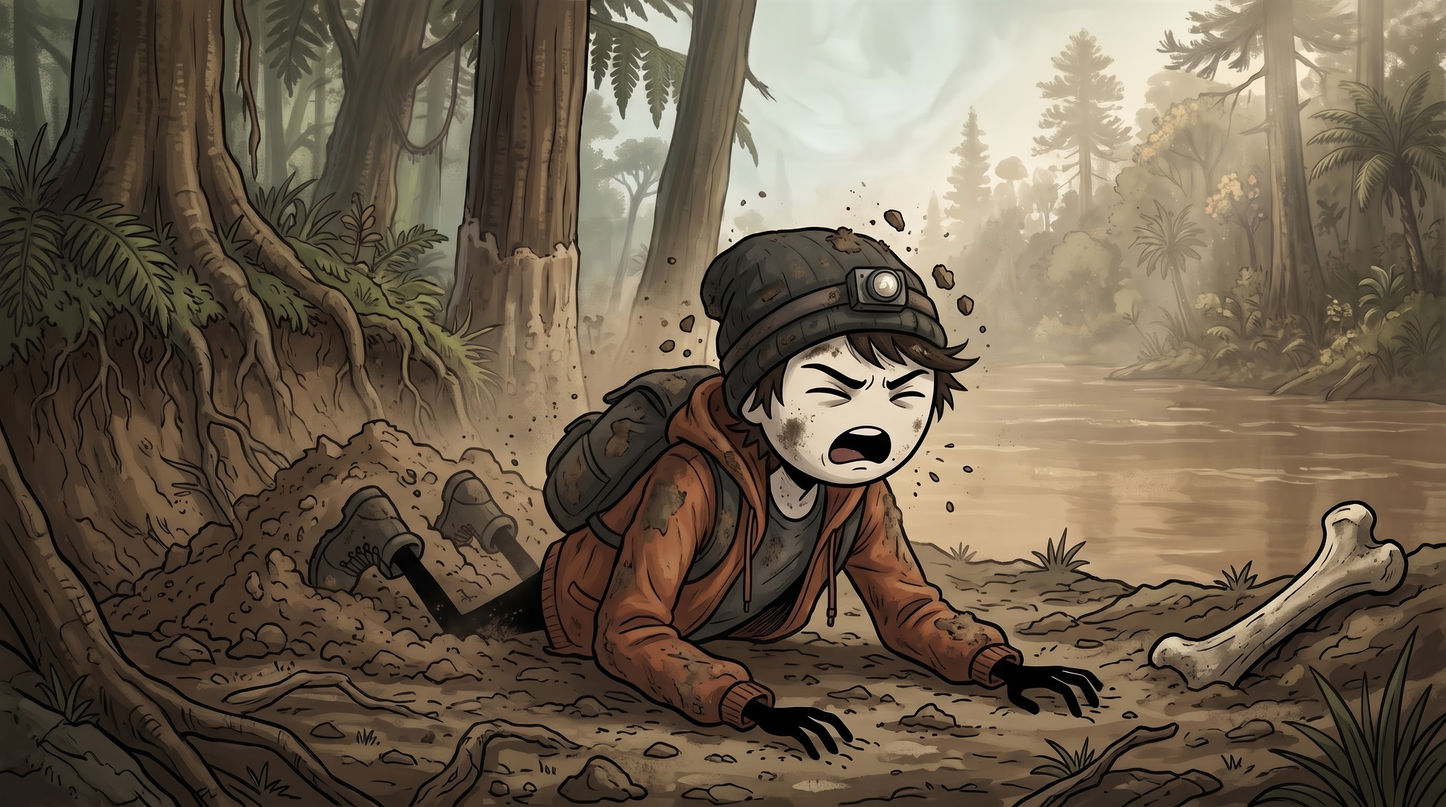
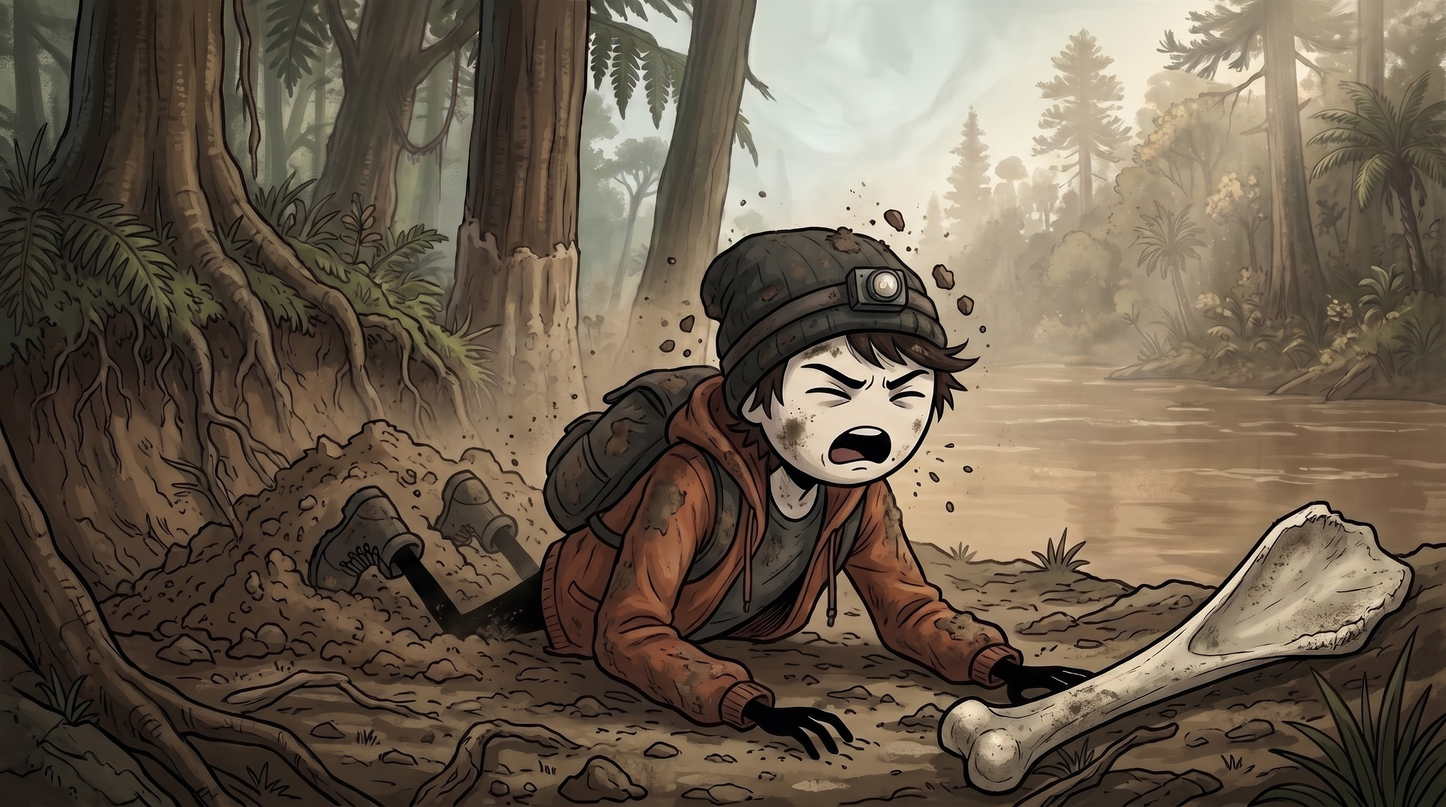
EN dino: round-2 fixes from Drive (062, 110, 111, 114, 123, 129, 130, 153, 228, 231); new band/scar prompts
Claude-Session: https://claude.ai/code/session_01NtES8fcQpSP9FW8DWb2y14

diff --git a/videos/dino-long-en/prompts/build_prompts.py b/videos/dino-long-en/prompts/build_prompts.py
@@ -456,8 +456,12 @@ BONE_PRES = ("every character's head, face, hair, clothing, pose and stick-figur
 FIX = {}
 FIX["bone"] = ("Edit the first attached image. Use the second attached image only for the shape of the bone.\n\nCHANGE: " + BONE_CHANGE +
                "\n\nPRESERVE EXACTLY: " + BONE_PRES + "\n\nOnly the shape of the bone differs. Everything else is 100% identical.")
+FIX["band"] = ("Edit the attached image.\n\nCHANGE: The clay bank around the tunnel entrance is plain brown clay like the rest of the bank, with no pale band of mud on it; the pale mud bands on the tree trunks stay."
+               "\n\nPRESERVE EXACTLY: " + BONE_PRES.replace("every character's", "the young man's, the bone's and every character's") + "\n\nOnly the clay around the entrance differs. Everything else is 100% identical.")
+FIX["scar"] = ("Edit the attached image.\n\nCHANGE: On the left side of the skeleton's snout bone there is now one long, clearly visible healed scar: a pale ivory groove, brighter than the bone around it, running in a straight diagonal line from just behind the nostril opening to just below the eye opening, like an old claw gash that healed long ago."
+               "\n\nPRESERVE EXACTLY: the black hands and their grip; the book, its worn corners and dark-green spine; the skeleton's pose, every other bone and the museum hall; the camera angle, framing and lens; the light direction, colour and shadows; the colour grade, contrast and grain.\n\nOnly the visible scar differs. Everything else is 100% identical.")
 FIX["boneband"] = ("Edit the first attached image. Use the second attached image only for the shape of the bone.\n\nCHANGE: " + BONE_CHANGE +
-               " Also, the pale band of dried flood mud on the clay bank runs a hand below the bottom edge of the round tunnel entrance, so the whole entrance sits above the band."
+               " Also, the clay bank around the tunnel entrance is plain brown clay like the rest of the bank, with no pale band of mud on it; the pale mud bands on the tree trunks stay."
                "\n\nPRESERVE EXACTLY: " + BONE_PRES + "\n\nOnly the shape of the bone and the height of the mud band differ. Everything else is 100% identical.")
 
 # ---------- read shotlist for timing + text ----------
@@ -516,14 +520,21 @@ for n in (59, 62):
     kind, att, p = FR[n]
     G += [f"### #{n:03d} · NEW" + (" · M" if n == 62 else ""), f"**پیوست:** {' · '.join(att)}  ",
           "**تنظیمات:** " + ("۱۶:۹ · بالاترین رزولوشن (4K) — مادرِ برشها" if n == 62 else "۱۶:۹ · 2K"), ""] + blk(p)
+G += ["## ۰ · دور دوم (بعد از بازبینی عکسهای درایو)\n",
+      "### #130 · فقط خط سیل",
+      "روی **عکس تازهی 130** (همونی که استخونش درست شد). مدل نوار رو جابهجا نکرد، پس این بار فقط پاکش میکنیم.  ",
+      "**پیوست:** فقط عکس 130  ", ""] + blk(FIX["band"]) + [
+      "### #228 · زخم واضحتر",
+      "روی **عکس تازهی 228** (همون که فرستادی). زخم هنوز به چشم نمیاد.  ",
+      "**پیوست:** فقط عکس 228  ", ""] + blk(FIX["scar"])
 G += ["## ۲ · ویرایش استخوان (شبیه استخوان سگ شده)",
       "**ابزار:** Nano Banana، روی **عکس اصلی** هر قاب.  ",
       "**پیوست:** ۱) عکس همان قاب ۲) عکس `D4e` (استخوان درست)  ",
-      "**همین یک پرامپت برای همهی این قابها:** 093 · 102 · 103 · 108 · 110 · 111 · 117 · 118 · 123 · 129 · و دو عکس قدیمی `D5b` و `D6b`\n"] + blk(FIX["bone"])
+      "**همین یک پرامپت برای همهی این قابها:** 093 · 102 · 103 · 108 · 117 · 118 · و دو عکس قدیمی `D5b` و `D6b`\n"] + blk(FIX["bone"])
 G += ["## ۳ · ویرایش استخوان + خط سیل",
       "خط سفید سیل از وسط در تونل رد شده. با همین یک ویرایش هر دو درست میشود.  ",
       "**پیوست:** ۱) عکس همان قاب ۲) عکس `D4e`  ",
-      "**قابها:** 130 · 147\n"] + blk(FIX["boneband"])
+      "**قابها:** فقط 147 (130 رو با بخش ۰ درست کن)\n"] + blk(FIX["boneband"])
 G += ["## ۴ · ویرایشهایی که جا ماند یا روی عکس اشتباه زده شد\n"]
 src = {153: "عکس قدیمی `D6c` (برش عرضی تونل)، **نه** D6a", 228: "عکس قاب `017` خودت (کتاب در دو دست)، **نه** عکس A2", 231: "عکس **تازهی** #136 (همان که اسکلتش رو به چپ است)"}
 for n in (153, 228, 231):

diff --git a/videos/dino-long-en/prompts/06-fixes.md b/videos/dino-long-en/prompts/06-fixes.md
@@ -37,10 +37,40 @@ Dark gritty animated survival story style for teens and adults, detailed digital
 Palette: 60% mossy green, 30% golden morning light, 10% red berries and rust-orange jacket. Both are sharp and large enough to crop: his face in the left third, Pip and the berries in the right third. Exactly one person and one Pip. Clean image with blank unbranded surfaces and no lettering anywhere. Wide 16:9 composition.
 ```
 
+## ۰ · دور دوم (بعد از بازبینی عکسهای درایو)
+
+### #130 · فقط خط سیل
+روی **عکس تازهی 130** (همونی که استخونش درست شد). مدل نوار رو جابهجا نکرد، پس این بار فقط پاکش میکنیم.  
+**پیوست:** فقط عکس 130  
+
+```
+Edit the attached image.
+
+CHANGE: The clay bank around the tunnel entrance is plain brown clay like the rest of the bank, with no pale band of mud on it; the pale mud bands on the tree trunks stay.
+
+PRESERVE EXACTLY: the young man's, the bone's and every character's head, face, hair, clothing, pose and stick-figure anatomy; the place, the clay bank, the tunnel entrance, the river, the roots and every other object and its position; the camera angle, framing and lens; the light direction, colour and shadows; the colour grade, contrast and grain.
+
+Only the clay around the entrance differs. Everything else is 100% identical.
+```
+
+### #228 · زخم واضحتر
+روی **عکس تازهی 228** (همون که فرستادی). زخم هنوز به چشم نمیاد.  
+**پیوست:** فقط عکس 228  
+
+```
+Edit the attached image.
+
+CHANGE: On the left side of the skeleton's snout bone there is now one long, clearly visible healed scar: a pale ivory groove, brighter than the bone around it, running in a straight diagonal line from just behind the nostril opening to just below the eye opening, like an old claw gash that healed long ago.
+
+PRESERVE EXACTLY: the black hands and their grip; the book, its worn corners and dark-green spine; the skeleton's pose, every other bone and the museum hall; the camera angle, framing and lens; the light direction, colour and shadows; the colour grade, contrast and grain.
+
+Only the visible scar differs. Everything else is 100% identical.
+```
+
 ## ۲ · ویرایش استخوان (شبیه استخوان سگ شده)
 **ابزار:** Nano Banana، روی **عکس اصلی** هر قاب.  
 **پیوست:** ۱) عکس همان قاب ۲) عکس `D4e` (استخوان درست)  
-**همین یک پرامپت برای همهی این قابها:** 093 · 102 · 103 · 108 · 110 · 111 · 117 · 118 · 123 · 129 · و دو عکس قدیمی `D5b` و `D6b`
+**همین یک پرامپت برای همهی این قابها:** 093 · 102 · 103 · 108 · 117 · 118 · و دو عکس قدیمی `D5b` و `D6b`
 
 ```
 Edit the first attached image. Use the second attached image only for the shape of the bone.
@@ -55,12 +85,12 @@ Only the shape of the bone differs. Everything else is 100% identical.
 ## ۳ · ویرایش استخوان + خط سیل
 خط سفید سیل از وسط در تونل رد شده. با همین یک ویرایش هر دو درست میشود.  
 **پیوست:** ۱) عکس همان قاب ۲) عکس `D4e`  
-**قابها:** 130 · 147
+**قابها:** فقط 147 (130 رو با بخش ۰ درست کن)
 
 ```
 Edit the first attached image. Use the second attached image only for the shape of the bone.
 
-CHANGE: The long pale bone is a dinosaur shoulder blade, shaped like the bone in the second attached image: one end widens into a broad, flat, thin paddle-shaped blade with a slightly ragged edge, and the other end narrows into one single thick rounded joint; it is as long as his arm. It sits in exactly the same place, at the same angle and in the same grip as the old bone. Also, the pale band of dried flood mud on the clay bank runs a hand below the bottom edge of the round tunnel entrance, so the whole entrance sits above the band.
+CHANGE: The long pale bone is a dinosaur shoulder blade, shaped like the bone in the second attached image: one end widens into a broad, flat, thin paddle-shaped blade with a slightly ragged edge, and the other end narrows into one single thick rounded joint; it is as long as his arm. It sits in exactly the same place, at the same angle and in the same grip as the old bone. Also, the clay bank around the tunnel entrance is plain brown clay like the rest of the bank, with no pale band of mud on it; the pale mud bands on the tree trunks stay.
 
 PRESERVE EXACTLY: every character's head, face, hair, clothing, pose and stick-figure anatomy; the place, the clay bank, the tunnel entrance, the river, the roots and every other object and its position; the camera angle, framing and lens; the light direction, colour and shadows; the colour grade, contrast and grain.
 
